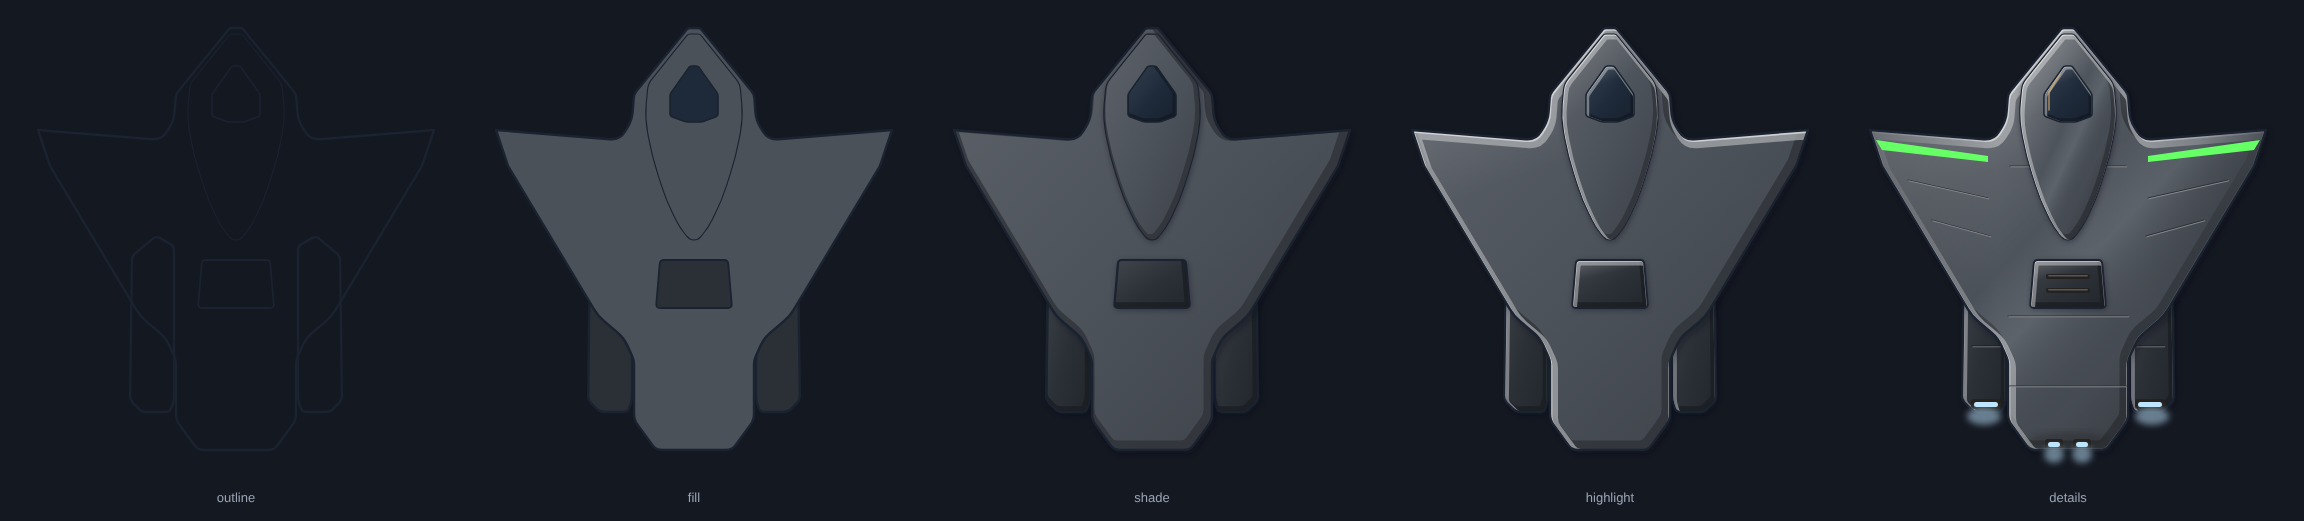
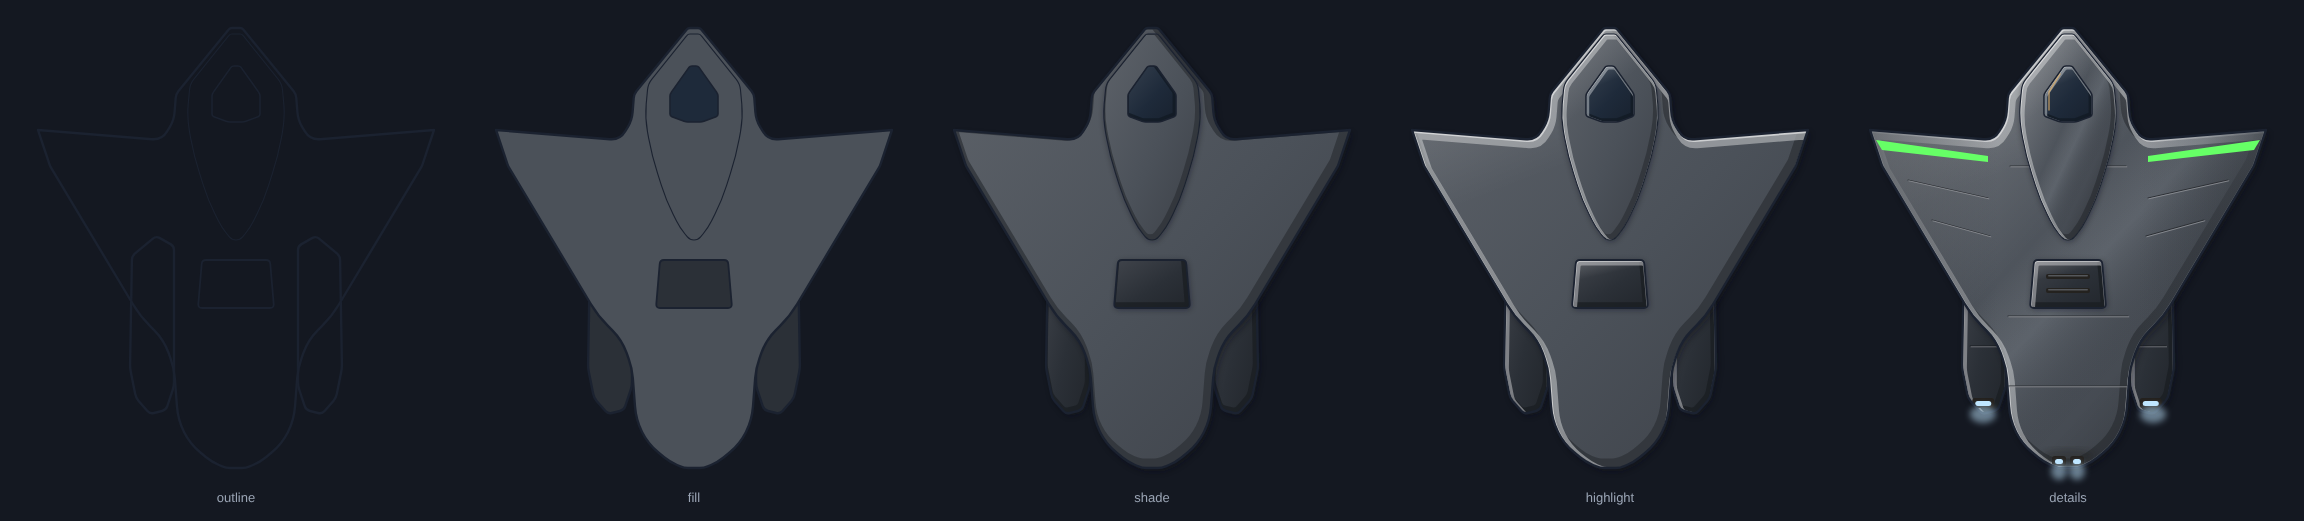
Patrol Cutter pass 7: the stern and nacelles taper to a narrow tail
Claude-Session: https://claude.ai/code/session_01WZGEuQ1NEBVidT9MSQSZ2z

diff --git a/docs/art/terran/patrol-cutter/tools/build.py b/docs/art/terran/patrol-cutter/tools/build.py
@@ -67,11 +67,14 @@ def scorch(x, y, rx, ry):
 # pass 3 (heromedel: the wings should merge with the centre so it reads as one whole ship, not a column): one hull
 # outline for the body and both wings, a smooth fillet where they meet. Its left half, top to bottom: the chisel bow,
 # the wing root, the forward-swept leading edge to the sharp tip, the trailing edge back in to the stern.
-HULL = [(214, 12), (160, 78), (158, 104), (146, 124), (22, 114), (34, 150), (124, 300), (150, 322), (160, 344),
-        (160, 404), (182, 434)]
-HULL_RADII = [2, 4, 8, 10, 0, 2, 8, 8, 4, 6, 6]
+HULL = [(214, 12), (160, 78), (158, 104), (146, 124), (22, 114), (34, 150), (124, 300), (148, 324), (158, 352),
+        (162, 404), (174, 428), (196, 446), (210, 452)]
+# pass 7 (heromedel: the back end tapering down more stylishly): from just behind the engine room the stern curves in
+# to a narrow tail, and the wings' trailing edges sweep into it on softer fillets
+HULL_RADII = [2, 4, 8, 10, 0, 2, 14, 14, 10, 14, 16, 10, 4]
 # the port nacelle, tucked under the wing's trailing edge, its nozzle set into its tail
-NACELLE_PORT = [(140, 220), (116, 240), (114, 384), (126, 396), (154, 396), (158, 384), (158, 230)]
+NACELLE_PORT = [(140, 220), (116, 240), (114, 352), (120, 382), (134, 398), (150, 394), (158, 370), (158, 230)]
+# (pass 7: its tail tapered too, to match the stern)
 
 
 def nozzle(x, y, w):
@@ -88,7 +91,7 @@ def build(edge=None):
     for name, half in (("nacelle-port", NACELLE_PORT), ("nacelle-starboard", mirror(NACELLE_PORT))):
         x = sum(p[0] for p in half) / len(half)
         h.plate(name, rounded_path(half, 4), DARK, bevel=3, shadow=3,
-                details=seam(x - 14, 330, x + 14, 330, DARK) + nozzle(x, 383, 30))
+                details=seam(x - 14, 330, x + 14, 330, DARK) + nozzle(x - 1, 382, 22))
     # the hull: body and wings as one plate. Pass 4: the wings shade into the body on a smooth gradient, darker toward
     # the tips (a hard tone edge traced the old column); a metallic sheen and a pale rim, as on the Pirate Hijacker.
     # The stripe raked along each wing's leading edge is in the ship's power colour: power green on a player ship,
@@ -113,7 +116,7 @@ def build(edge=None):
                     + seam(sx(60), 164, sx(140), 182, PLATE) + seam(sx(84), 204, sx(142), 220, PLATE))
     details = (f'<path d="{hull_d}" fill="url(#wing-blend)"/><path d="{hull_d}" fill="url(#sheen)"/>'
                + stripes + seam(162, 150, 278, 150, PLATE) + seam(160, 300, 280, 300, PLATE)
-               + seam(160, 370, 280, 370, PLATE) + scorch(220, 424, 40, 8) + nozzle(206, 423, 18) + nozzle(234, 423, 18)
+               + seam(160, 370, 280, 370, PLATE) + scorch(220, 440, 26, 7) + nozzle(211, 440, 14) + nozzle(229, 440, 14)
                + f'<path d="{hull_d}" fill="none" stroke="#b4bcc6" stroke-width="3" opacity=".35"/>'
                + f'<path d="{hull_d}" fill="none" stroke="#eef2f6" stroke-width=".9" opacity=".3"/>')
     h.plate("hull", hull_d, PLATE, bevel=5, shadow=4, details=details)
@@ -139,8 +142,8 @@ def build(edge=None):
                             f'opacity=".55"/>' for i in range(2)))
     # the engines' glow, behind the nozzles set into the nacelles and the stern
     h.raw("engines", {5: "".join(f'<ellipse cx="{x}" cy="{y}" rx="{w}" ry="9" fill="{ENGINE_GLOW}" opacity=".5" '
-                                 f'filter="url(#glow)"/>' for x, y, w in ((136, 400, 17), (304, 400, 17),
-                                                                          (206, 438, 10), (234, 438, 10)))})
+                                 f'filter="url(#glow)"/>' for x, y, w in ((135, 398, 13), (305, 398, 13),
+                                                                          (211, 455, 8), (229, 455, 8)))})
     # six planned mounts on the outer edge, odd port, even starboard (art rules): 1-2 on the wingtips, 3-4 on the
     # wings' leading edges by the body (the cutter's guns), 5-6 on the prow's chines. Each sits on the edge measured
     # from the rendered hull (`edge`), so it is really on it.

diff --git a/docs/art/terran/patrol-cutter/README.md b/docs/art/terran/patrol-cutter/README.md
@@ -18,8 +18,8 @@ centre of tile (0, 0) at 220, 235).
 
 - **Shape:** one hull outline for the body and its forward-swept blade wings, sharp at the tips and joined to the body
   with a smooth fillet, so it reads as one ship and breaks up the vertical stack of rooms; a chisel bow; engine
-  nacelles under the wings' trailing edges with their nozzles set into their tails, and a small pair set into the
-  stern. No nose cone, fins or engine bells.
+  nacelles under the wings' trailing edges with their nozzles set into their tapered tails, and a stern that curves
+  in to a narrow tail with a small pair of nozzles set into it. No nose cone, fins or engine bells.
 - **Colours and wear:** the Pirate Hijacker's gunmetal greys, a tad darker, with a metallic sheen and a pale rim (heromedel); the wings
   shade into the body on a smooth gradient, darker toward the tips. A stripe raked along each wing's leading edge in
   the ship's power colour: power green on a player ship, pirate power orange on a non-player one
@@ -61,6 +61,7 @@ W3, crescent wings.
 | 4 | heromedel: the Pirate Hijacker's grey, more metallic, the wings and centre blended so it doesn't read as a column, the stripes in power green (pirate orange on non-player vessels). Its gunmetal palette, a sheen and a pale rim; the wings' darker tone as a smooth gradient instead of a panel with an edge; the rust bands now power-colour stripes. |
 | 5 | heromedel: a tad darker, and the cockpit set apart from the wings so it reads as a small cockpit. The greys a step darker; the cockpit a raised, bevelled nose module of its own, its rear edge curving across in front of the wing roots. |
 | 6 | heromedel: sleekly down from the wings, not so harsh. The cockpit as a raised teardrop fairing tapering back down the spine between the wing roots, with a thin outline, a gentle bevel and only a hint of shadow. |
+| 7 | heromedel: the back end tapering down more stylishly. From just behind the engine room the stern curves in to a narrow tail, with the stern nozzles set into it; the wings' trailing edges sweep into it on softer fillets; the nacelles' tails taper to match. |
 
 Each part is built in the five stages (`review/stages.png`). The Gat M1 has no weapon art yet, so there is no armed
 preview.
